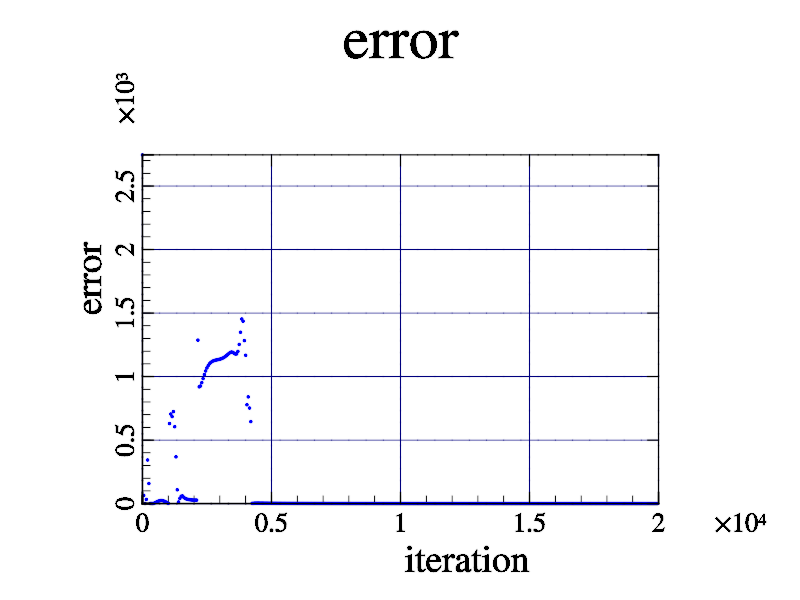
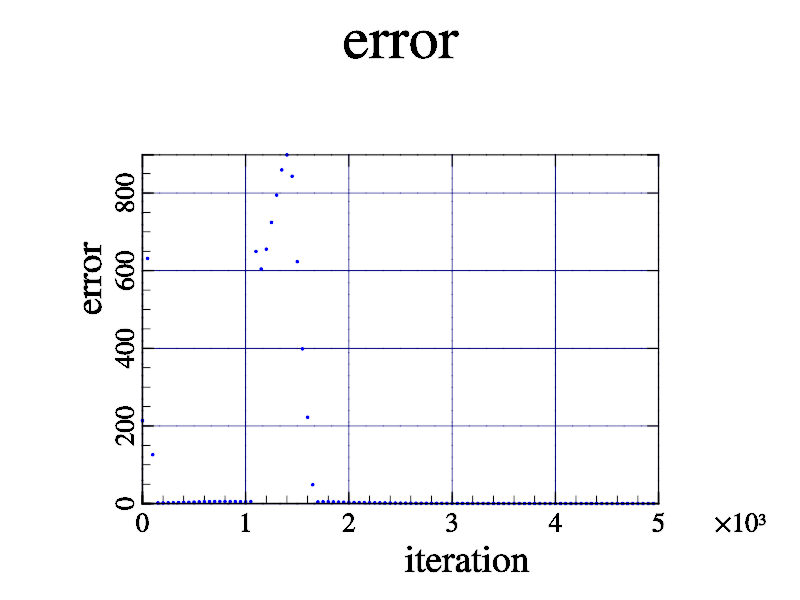
add 3d data and plot,but it seems not a good idea

diff --git a/src/main.cpp b/src/main.cpp
@@ -97,6 +97,92 @@ double drawResult(nn& n,string title)
 	return 0;
 }
 
+double drawSample3d(sample& sample, string out)
+{
+	mglGraph gr;
+	gr.SetSize(800,600);
+	gr.SetRanges(0,10,0,10,0,10);
+	gr.Title("sample");
+	gr.Rotate(60,50);
+	gr.Light(true);
+	gr.Axis(); gr.Grid(); gr.Box();
+	gr.Label('x',"x",0.5);
+	gr.Label('y',"y",0.5);
+	gr.Label('z',"z",0.5);
+
+	char flag[10] = " . ";
+
+	mglData	xdat(1), ydat(1), zdat(1);
+
+	for(int i=0; i<(int)sample.size(); i++){
+		xdat.a[0] = sample[i].feature[0];
+		ydat.a[0] = sample[i].feature[1];
+		zdat.a[0] = sample[i].feature[2];
+		switch((int)sample[i].l){
+			case 0:
+				flag[0] = 'r';
+				break;
+			case 1:
+				flag[0] = 'g';
+				break;
+		}
+		gr.Plot(xdat, ydat, zdat, flag);
+	}
+	gr.WritePNG(out.c_str());
+	return 0;
+}
+
+double drawResult3d(nn& n,string title,string out)
+{
+	const int size = 10;
+	mglGraph gr;
+	gr.SetSize(800,600);
+	gr.SetRanges(0,size,0,size,0,size);
+	gr.Title(title.c_str());
+	gr.Rotate(60,50);
+	gr.Light(true);
+	gr.Axis(); gr.Grid(); gr.Box();
+	gr.Label('x',"x",0.5);
+	gr.Label('y',"y",0.5);
+	gr.Label('z',"z",0.5);
+
+	char flag[10] = " .";
+
+	mglData	xdat(1), ydat(1), zdat(1);
+	int label;
+	for(double x=0; x<size; x+=1){
+		for(double y=0; y<size; y+=1){
+			for(double z=0; z<size; z+=1){
+				xdat.a[0] = x;
+				ydat.a[0] = y;
+				zdat.a[0] = z;
+				n.input.at(0) = x/10;
+				n.input.at(1) = y/10;
+				n.input.at(2) = z/10;
+				n.test();
+				if(n.oo[0] >= 0.99)
+					label = 0;
+				else if(n.oo[1] >= 0.99)
+					label = 1;
+				else
+					label = 2;
+				switch(label){
+					case 0:
+						flag[0] = 'r';
+						break;
+					case 1:
+						flag[0] = 'g';
+						break;
+				}
+				if (label != 2)
+					gr.Plot(xdat, ydat, zdat, flag);
+			}
+		}
+	}
+	gr.WritePNG(out.c_str());
+	return 0;
+}
+
 double drawError(nn& n, int iteration, string title)
 {
 	mglGraph gr;
@@ -150,15 +236,15 @@ int main(int argc,char* argv[]){
 	string tc = " lr=";
 	string td = argv[3];
 
-	drawSample(n.getSample());
+	drawSample3d(n.getSample(),"s3d.png");
 	ta = ta+tb+tc+td;
-	drawResult(n,ta);
+	drawResult3d(n,ta,"r3d.png");
 
 	drawError(n,atoi(argv[2]),"error");
 
-	Mat m = imread("s.png");
+	Mat m = imread("s3d.png");
 	imshow("s",m);
-	Mat r = imread("r.png");
+	Mat r = imread("r3d.png");
 	imshow("r",r);
 	Mat e = imread("e.png");
 	imshow("e",e);

diff --git a/src/neural.hpp b/src/neural.hpp
@@ -3,8 +3,8 @@
 #include <string>
 #include "sample.hpp"
 
-#define input_num 2
-#define hidden_num 5
+#define input_num 3
+#define hidden_num 10
 #define output_num 2
 #define dlearning_rate 0.2
 
